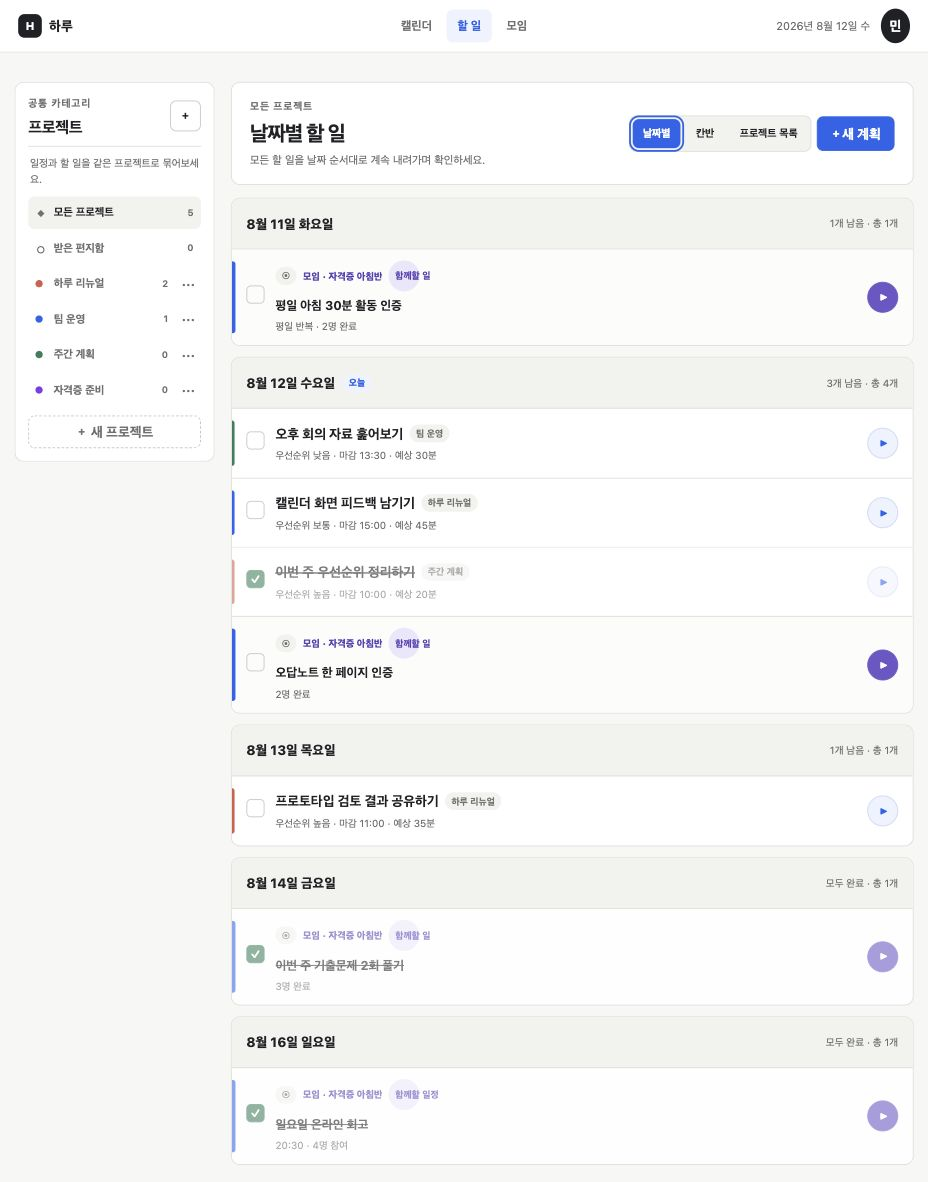
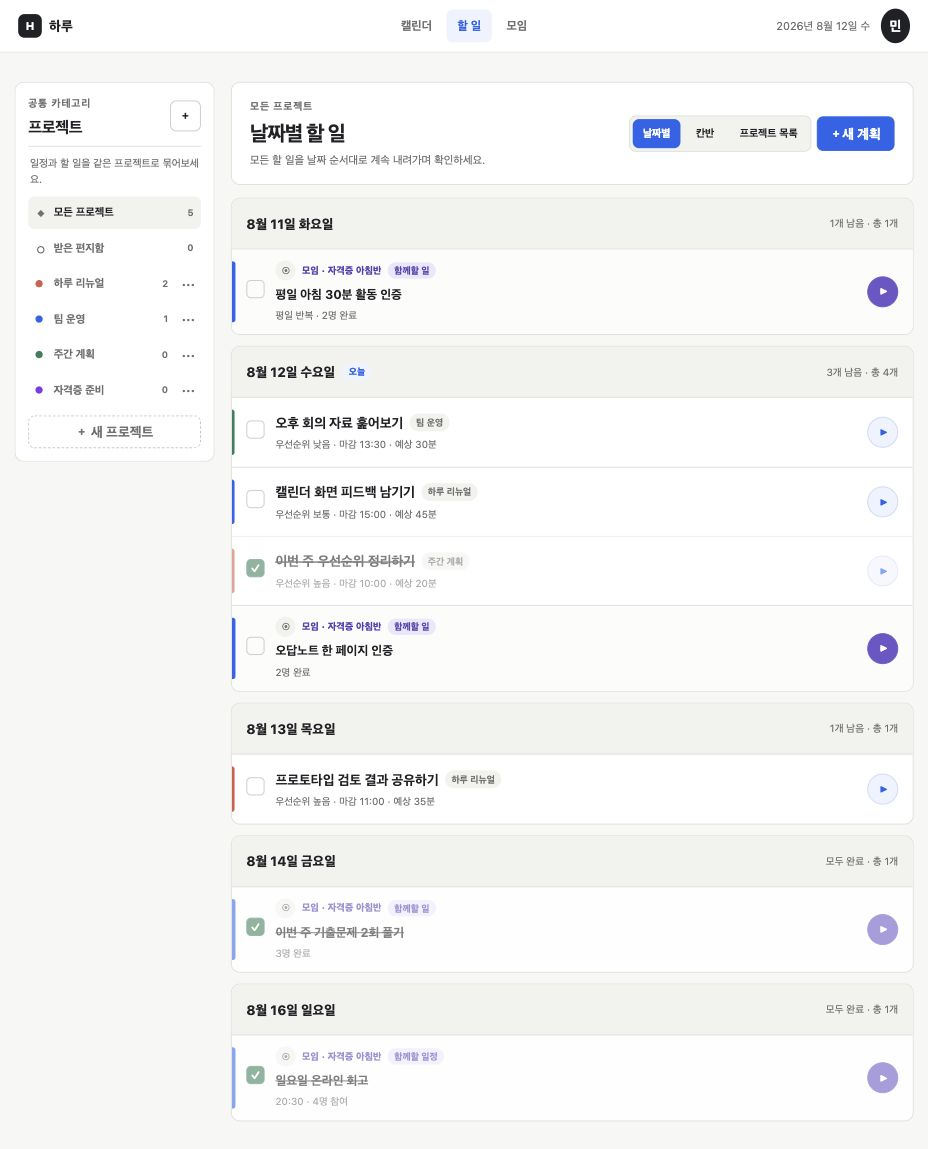
fix(screen): stabilize shared todo badges

diff --git a/src/index.css b/src/index.css
@@ -1549,7 +1549,15 @@ fieldset {
 }
 
 .shared-room-mark {
+  width: 22px;
+  height: 22px;
+  flex: 0 0 22px;
+  padding: 0;
+  display: grid;
+  place-items: center;
   color: #6d56c7;
+  border-radius: 50%;
+  background: #f1eff8;
   font-size: 0.72rem;
 }
 
@@ -1565,11 +1573,19 @@ fieldset {
   white-space: nowrap;
 }
 
-.todo-date-copy .shared-plan-type {
+.todo-date-copy .shared-todo-type-badge {
+  width: auto;
+  height: auto;
   flex: 0 0 auto;
   padding: 2px 7px;
+  display: inline-flex;
+  align-items: center;
+  border-radius: 999px;
   color: #5941b5;
   background: #ebe7fb;
+  font-size: 0.65rem;
+  font-weight: 700;
+  line-height: 1.35;
   white-space: nowrap;
 }
 

diff --git a/src/components/TodoDateListView.tsx b/src/components/TodoDateListView.tsx
@@ -226,7 +226,9 @@ export default function TodoDateListView({
                         <span className="shared-source-badge">
                           모임 · {roomName}
                         </span>
-                        <span className="shared-plan-type">{typeLabel}</span>
+                        <span className="shared-todo-type-badge">
+                          {typeLabel}
+                        </span>
                       </div>
                       <Link to={`/studies/${roomId}`}>{item.title}</Link>
                       <p>
